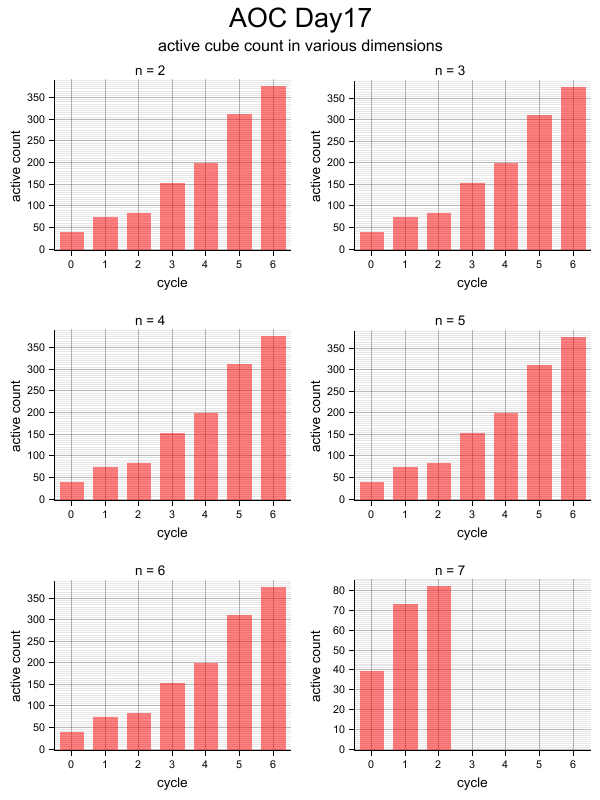
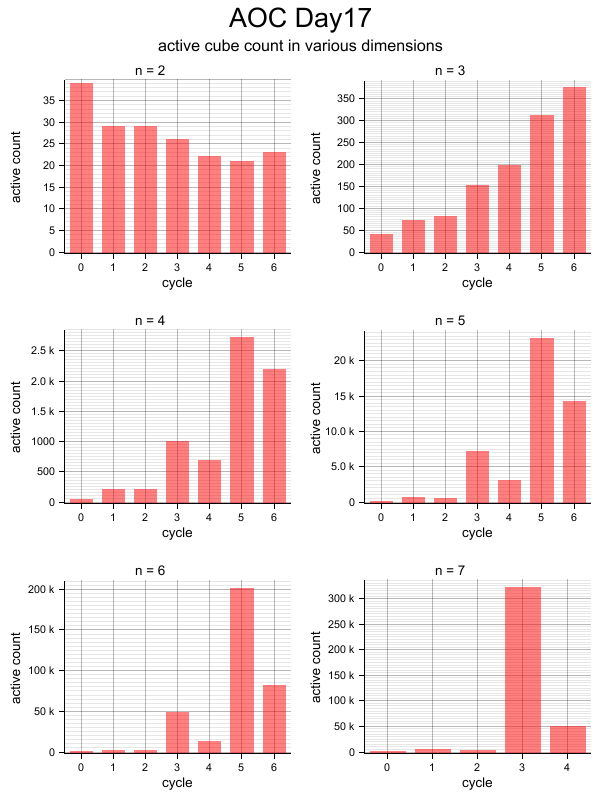
day17 plot update

diff --git a/src/main.rs b/src/main.rs
@@ -47,9 +47,10 @@ fn build_chart<'a>(
 	#..##.##\n\
 	#.#.####";
 
+	let cycles = if n < 7 { 6 } else { 4 };
 	println!("{} dimensions", n);
 	println!("-------------");
-	let active_count = conway_nd(n, &input_generator(INPUT, n), if n < 7 { 6 } else { 2 });
+	let active_count = conway_nd(n, &input_generator(INPUT, n), cycles);
 	println!();
 	let mut max = *active_count.iter().max().unwrap();
 	max += (max as f64 * 0.05) as usize;
@@ -57,11 +58,11 @@ fn build_chart<'a>(
 		// Set the caption of the chart
 		.caption(format!("n = {}", n), ("sans-serif", 15).into_font())
 		// Set the size of the label region
-		.x_label_area_size(40)
-		.y_label_area_size(45)
+		.x_label_area_size(37)
+		.y_label_area_size(55)
 		.margin(10)
 		// Finally attach a coordinate on the drawing area and make a chart context
-		.build_cartesian_2d((0..6).into_segmented(), 0..max)?;
+		.build_cartesian_2d((0..cycles).into_segmented(), 0..max)?;
 
 	// Then we can draw a mesh
 	chart
@@ -69,6 +70,15 @@ fn build_chart<'a>(
 		// We can customize the maximum number of labels allowed for each axis
 		.x_labels(7)
 		.y_labels(10)
+		.y_label_formatter(&|y| {
+			if *y > 10_000 {
+				format!("{} k", *y / 1000)
+			} else if *y > 1000 {
+				format!("{:.1} k", *y as f64 / 1000.0)
+			} else {
+				y.to_string()
+			}
+		})
 		.x_desc("cycle")
 		.axis_desc_style(("sans-serif", 15).into_font().style(FontStyle::Bold))
 		.y_desc("active count")
@@ -79,12 +89,7 @@ fn build_chart<'a>(
 	chart.draw_series(
 		Histogram::vertical(&chart)
 			.style(RED.mix(0.5).filled())
-			.data(
-				active_count
-					.iter()
-					.enumerate()
-					.map(|(idx, x)| (idx as i32, *x)),
-			),
+			.data(active_count.iter().enumerate().map(|(idx, x)| (idx, *x))),
 	)?;
 	Ok(())
 }
